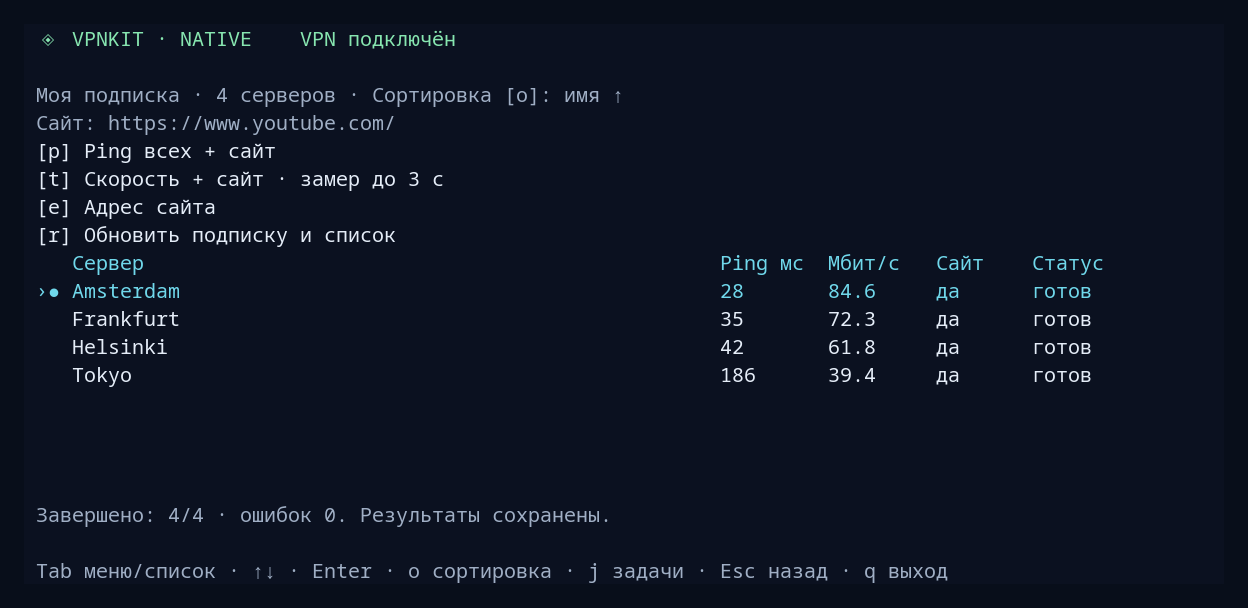
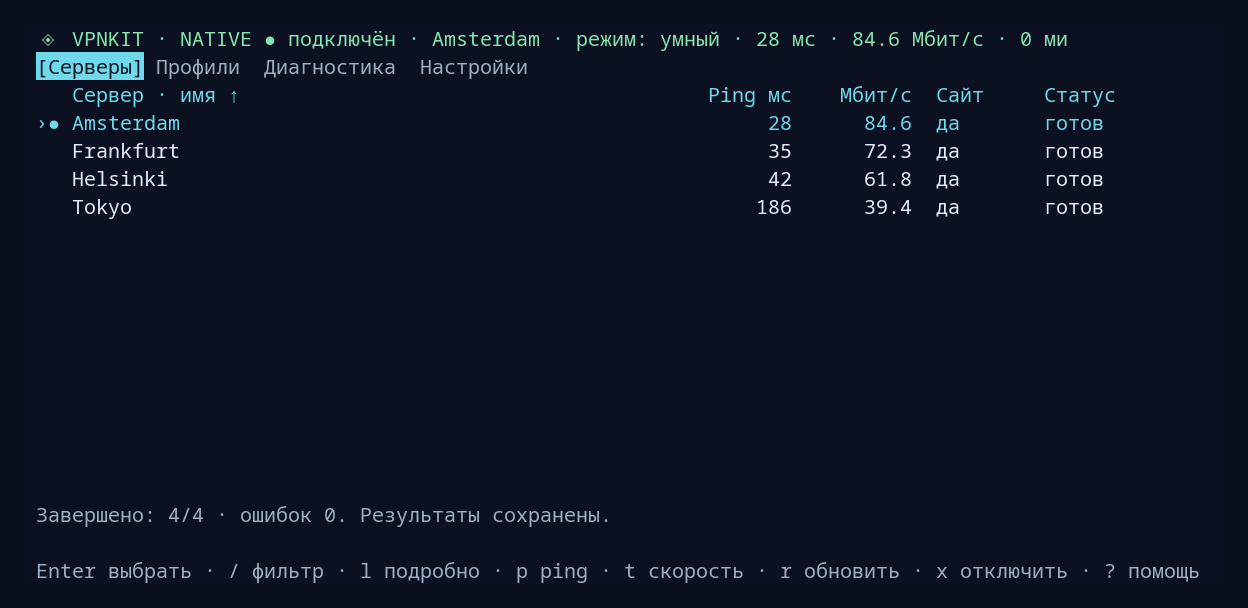
docs: update terminal interface guide and captures

diff --git a/docs/guide.ru.md b/docs/guide.ru.md
@@ -81,7 +81,7 @@ cd local-vpn-kde
 1. Откройте **Профили** (`c`) и добавьте подписку или одиночную ссылку на сервер.
 2. Откройте **Серверы** (`v`). Для новой подписки обновите список (`r`), затем выберите и примените сервер.
 3. При желании проверьте задержку, сайт или скорость в списке серверов.
-4. Вернитесь на главный экран. Запустите службу, если она остановлена, затем выберите **Подключить VPN** (`s`).
+4. Запустите службу, если она остановлена, затем выберите **Подключить VPN** (`s`).
 
 **«Служба готова» ещё не означает «VPN подключён».** Служба может работать для проверок, пока системное подключение выключено.
 
@@ -95,10 +95,20 @@ cd local-vpn-kde
 | `m` | Строгий / умный режим |
 | `a` | Настройки автозапуска |
 | `d` | Диагностика |
+| `i` | Настройки |
+| `Tab` / `Shift+Tab` | Следующая / предыдущая вкладка |
+| `/` | Фильтр имён; `Enter` сохраняет, `Esc` очищает |
+| `p` / `t` | Ping и сайт / скорость и сайт показанных серверов |
+| `T` / `b` | Проверить сервер под курсором / предложить самый быстрый измеренный из показанных |
+| `o` / `[` / `]` / `\` | Следующая сортировка / выбрать столбец / обратить направление |
+| `l` | Сведения о сервере под курсором |
+| `:` / `Ctrl+P` | Поиск команд |
+| `j` / `k` | Задачи / отмена операции |
+| `X` | Удалить выбранный профиль с подтверждением |
 | `z` | Остановить native-службу вместе с VPN |
 | `Esc` / `q` | Назад / выйти из интерфейса |
 
-В меню также работают стрелки, `Tab` и `Enter`. Доступные действия зависят от экрана и состояния службы.
+Таблица серверов открывается первой; строка состояния показывает выбранный сервер, а нижняя строка — доступные клавиши. Стрелки перемещают курсор, `Enter` выбирает пункт, `?` открывает справку. `a` открывает автозапуск и не выполняет ping. Проверки могут пересекаться или ожидать в очереди; `j` показывает выполняющиеся, ожидающие и завершённые операции. Доступные действия зависят от состояния службы.
 
 Настройки автозапуска применяются при следующем входе в KDE. Можно запускать только шлюз либо шлюз с подключением VPN. Отключение автозапуска не разрывает текущее соединение; TUI при входе автоматически не открывается. У Docker уже работающий шлюз также может перезапускаться согласно политике контейнера.
 

diff --git a/docs/guide.en.md b/docs/guide.en.md
@@ -81,7 +81,7 @@ The installer requests administrator access when needed, installs build and runt
 1. Open **Profiles** (`c`, «Профили») and add a subscription or an individual server link.
 2. Open **Servers** (`v`, «Серверы»). Refresh a new subscription (`r`), then select and apply a server.
 3. Optionally check latency, website access or speed from the server list.
-4. Return to the main screen. Start the service if it is stopped, then choose **Connect VPN** (`s`, «Подключить VPN»).
+4. Start the service if it is stopped, then choose **Connect VPN** (`s`, «Подключить VPN»).
 
 **“Service ready” does not mean “VPN connected.”** The service can run checks while the system VPN connection remains off.
 
@@ -95,10 +95,20 @@ The installer requests administrator access when needed, installs build and runt
 | `m` | Strict / smart routing |
 | `a` | Autostart settings |
 | `d` | Diagnostics |
+| `i` | Settings |
+| `Tab` / `Shift+Tab` | Next / previous tab |
+| `/` | Filter names; `Enter` keeps it, `Esc` clears it |
+| `p` / `t` | Ping and site / speed and site for shown servers |
+| `T` / `b` | Test the row under the cursor / offer the fastest measured shown server |
+| `o` / `[` / `]` / `\` | Cycle sort / choose column / reverse direction |
+| `l` | Details for the row under the cursor |
+| `:` / `Ctrl+P` | Search commands |
+| `j` / `k` | Activity / cancel operation |
+| `X` | Remove the selected profile after confirmation |
 | `z` | Stop the native service and its VPN |
 | `Esc` / `q` | Go back / exit the interface |
 
-Menus also support arrow keys, `Tab` and `Enter`. Available actions depend on the screen and service state.
+The server table opens first; the status line names the selected server and the footer shows available keys. Arrow keys move the cursor, `Enter` selects and `?` opens help. `a` opens autostart; it does not run ping. Checks can overlap or wait in a queue; `j` shows running, queued and finished operations. Available actions depend on service state.
 
 Autostart settings apply at the next KDE login. You can start only the gateway or also connect the VPN. Disabling autostart leaves the current connection running; the TUI does not open automatically at login. Docker may also restart an already-running gateway through its container restart policy.
 

diff --git a/README.md b/README.md
@@ -61,6 +61,10 @@ cd local-vpn-kde
 
 `m` — режим · `a` — автозапуск · `d` — диагностика · `x` — отключить VPN.
 
+После запуска открывается таблица серверов; `Tab` переключает вкладки «Серверы», «Профили», «Диагностика» и «Настройки». Строка состояния показывает подключение, выбранный сервер и режим. `?` открывает справку, `:` или `Ctrl+P` — поиск команд, `j` — задачи. Проверки могут выполняться параллельно или ждать в очереди; отменить задачу можно в панели задач.
+
+В таблице `/` фильтрует имена, `Enter` сохраняет фильтр, `Esc` очищает. `p` проверяет ping и сайт, `t` — скорость и сайт показанных серверов; `T` проверяет сервер под курсором, `b` предлагает самый быстрый измеренный среди показанных с подтверждением. `o` меняет сортировку, `[` и `]` выбирают столбец, `\` меняет направление; заголовок столбца также можно нажать мышью. `l` открывает сведения, `i` — настройки; в профилях `X` удаляет выбранный профиль после подтверждения. `a` открывает автозапуск и не запускает ping.
+
 ## Подробнее
 
 [Руководство и обновление](docs/guide.ru.md) · [Совместная работа с другими VPN](docs/native-coinstall.md) · [Обновление без отключения](docs/native-hot-upgrade.md) · [Тестирование](docs/native-e2e.md) · [Процесс выпуска](docs/releases.md)

diff --git a/README.en.md b/README.en.md
@@ -61,6 +61,10 @@ cd local-vpn-kde
 
 `m` — routing mode · `a` — autostart · `d` — diagnostics · `x` — disconnect VPN.
 
+The server table opens first. `Tab` cycles through Servers, Profiles, Diagnostics and Settings; the status line shows the connection, selected server and routing mode. `?` opens help, `:` or `Ctrl+P` searches commands, and `j` opens activity. Checks can overlap or wait in a queue; cancel a task from the activity panel.
+
+In the table, `/` filters names, `Enter` keeps the filter and `Esc` clears it. `p` checks ping and website access and `t` checks speed and website access for the shown servers; `T` tests the row under the cursor and `b` offers the fastest measured shown server for confirmation. `o` cycles sort columns, `[` and `]` choose a column, and `\` reverses direction; clicking a header also sorts it. `l` opens server details, `i` opens settings, and `X` removes the selected profile after confirmation. `a` opens autostart; it does not run ping.
+
 ## Learn more
 
 [User guide and updates](docs/guide.en.md) · [VPN coexistence](docs/native-coinstall.md) · [Upgrades without disconnecting](docs/native-hot-upgrade.md) · [Testing](docs/native-e2e.md) · [Release process (RU)](docs/releases.md)
